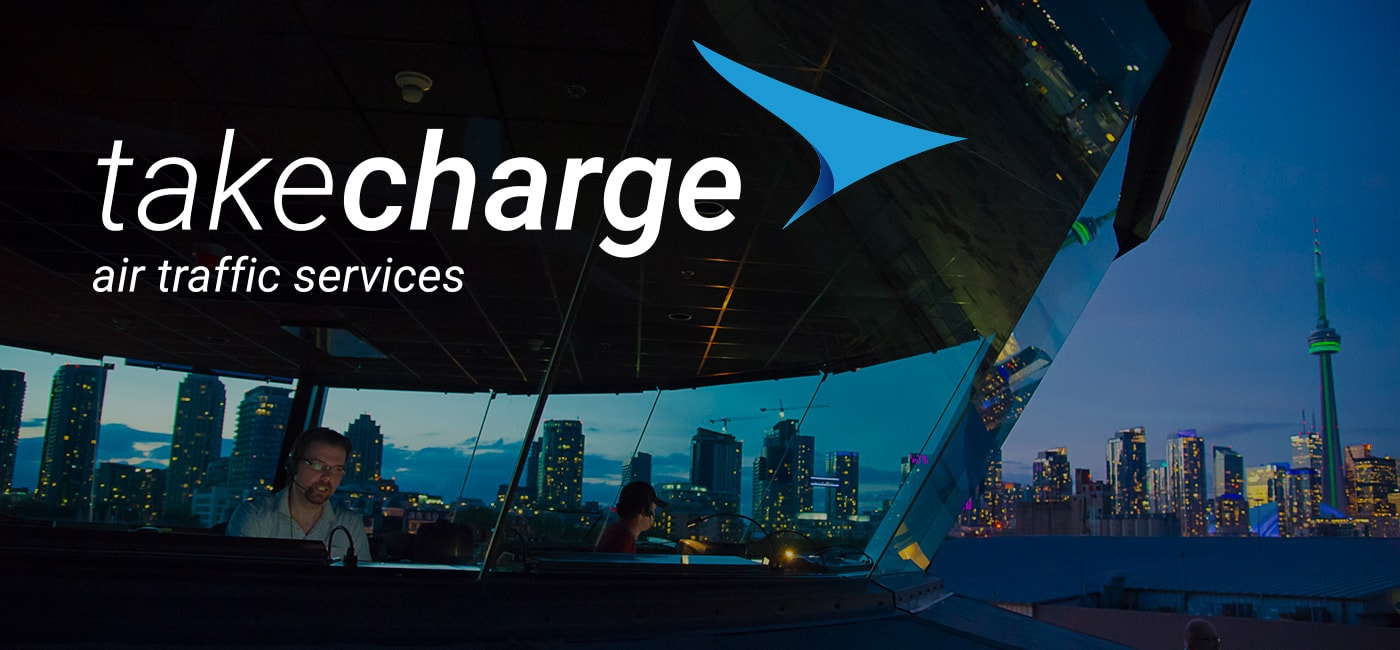
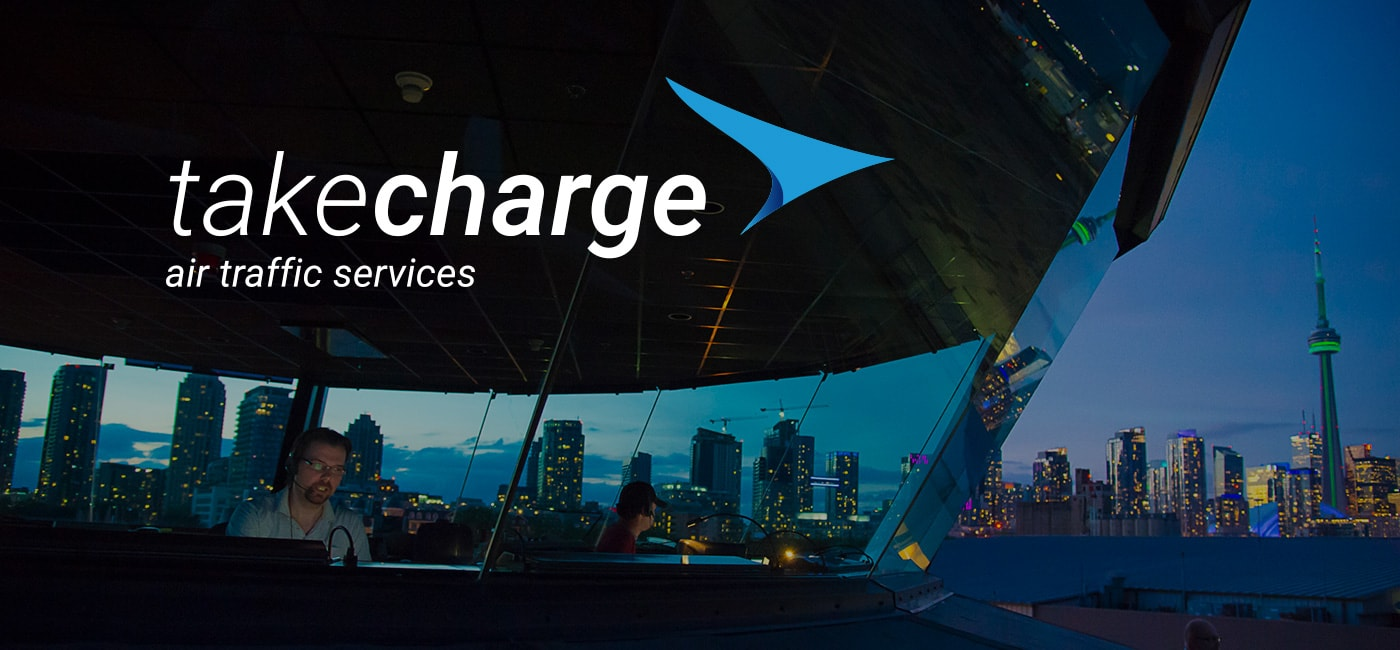
added 2 other projects

Changed region(s): [[0.0614, 0.0615, 0.6757, 0.4615]]

diff --git a/project-2.html b/project-2.html
@@ -2,97 +2,22 @@
 layout: default
 ---
 
-  <link href="/css/dialog-polyfill.css" rel="stylesheet">
-  <link href="/css/grids-app.css" rel="stylesheet">
-  <link href="/css/general-app.css" rel="stylesheet">
 
 <div class="grid">
-<div class="header-a">
 
-			<div class="unit unit-xs-1-9 unit-s-hidden unit-m-1-9 unit-l-1-9 unit-xl-1-8">
-			</div>
+	<div class="bg" role="complementary" id="comp">
+	<section class="work-single">
 
-			<div class="unit unit-xs-7-9 unit-s-1-2 unit-m-4-9 unit-l-4-9 unit-xl-1-4">
-					<div class="unit-spacer fade-in one">
-						<img class="flex-img logo-a" src="img/logo-a.png">
-						<h1 class="logo-js h1-a">Live Music</h1>
-						<h2 class="logo-js h2-a">The app for all music festivals</h2>
-					</div>
-			</div>
-
-			<div class="unit unit-xs-1-9 unit-s-hidden unit-m-hidden unit-l-hidden unit-xl-1-9">
-			</div>
-
-			<div class="unit unit-xs-1-9 unit-s-hidden unit-m-hidden unit-l-hidden">
-			</div>
-
-			<div class="unit unit-xs-7-9 unit-s-1-2 unit-m-1-3 unit-l-1-3 unit-xl-3-8  intro-app">
-					<div class="unit-spacer fade-in one">
-						<img id="btn-open" class="flex-img iphone-band logo-js" src="img/iphone-band.png">
-
-						<dialog id="video">
-							<button id="btn-close">×</button>
-							<div id="video-placeholder"></div>
-						</dialog>
-
-					</div>
-			</div>
-
-			<div class="unit unit-xs-1-9 unit-s-1-hidden unit-m-1-9 unit-l-1-9 unit-xl-1-8">
-			</div>
-
-</div>
-</div>
+		<div class="unit unit-xs-1 unit-s-1 unit-m-1 unit-l-1" >
+				<img src="img/nc1.jpg" alt="NAV Canada Take Charge" class="flex-img">
+				<img src="img/nc2.jpg" alt="Desktop version of home page and mobile version of inside pages of the NAV CANADA Website" class="flex-img">
+				<img src="img/nc3.jpg" alt="2 different inside pages for desktop view and 3 mobile screen views of the NAV CANADA Website" class="flex-img">
+				<img src="img/nc4.jpg" alt="Tablet and desktop view of the NAV CANADA Website and an infographic for the companie's statistic" class="flex-img">
+				<img src="img/nc5.jpg" alt="Multiple mobile screens and a responsive display of the NAV CANADA Website" class="flex-img">
+		</div>
 
 
 
-<!-- TABS -->
-
-	<ul class="tabs">
-		<li><a class="tab" data-state="current" href="#tab-1"><div class="circle"></div></a></li>
-		<li><a class="tab" href="#tab-2"><div class="circle"></div></a></li>
-		<li><a class="tab" href="#tab-3"><div class="circle"></div></a></li>
-	</ul>
-
-	<div class="tab-panel" data-state="current" id="tab-1">
-		<img class="tab-img flex-img" src="img/screen-all.jpg">
-	</div>
-
-	<div class="tab-panel" id="tab-2">
-		<img class="tab-img flex-img" src="img/screen-news.jpg">
-	</div>
-
-	<div class="tab-panel" id="tab-3">
-		<img class="tab-img flex-img" src="img/screen-schedule.jpg">
-	</div>
-
-
-
-	<!-- FEATURES -->
-
-	<section class="features-section">
-		<ul class="features">
-			<li><a class="tabb" data-state="current" href="#tab-a"><img class="icons" src="img/i-home.svg" alt=""></a></li>
-			<li><a class="tabb" href="#tab-b"><img class="icons" src="img/i-find.svg" alt=""></a></li>
-			<li><a class="tabb" href="#tab-c"><img class="icons" src="img/i-music.svg" alt=""></a></li>
-			<li><a class="tabb" href="#tab-d"><img class="icons" src="img/i-schedule.svg" alt=""></a></li>
 	</section>
-
-	<div class="tabb-panel" data-state="current" id="tab-a">
-		<div class="tabb-img flex-img app-feat-img app-1"></div>
 	</div>
-
-	<div class="tabb-panel" id="tab-b">
-		<div class="tabb-img flex-img app-feat-img app-2"></div>
-	</div>
-
-	<div class="tabb-panel" id="tab-c">
-		<div class="tabb-img flex-img app-feat-img app-3"></div>
-	</div>
-
-	<div class="tabb-panel" id="tab-d">
-		<div class="tabb-img flex-img app-feat-img app-4"></div>
-	</div>
-
-
-
+</div>

diff --git a/project-3.html b/project-3.html
@@ -1,0 +1,98 @@
+---
+layout: default
+---
+
+  <link href="/css/dialog-polyfill.css" rel="stylesheet">
+  <link href="/css/grids-app.css" rel="stylesheet">
+  <link href="/css/general-app.css" rel="stylesheet">
+
+<div class="grid">
+<div class="header-a">
+
+			<div class="unit unit-xs-1-9 unit-s-hidden unit-m-1-9 unit-l-1-9 unit-xl-1-8">
+			</div>
+
+			<div class="unit unit-xs-7-9 unit-s-1-2 unit-m-4-9 unit-l-4-9 unit-xl-1-4">
+					<div class="unit-spacer fade-in one">
+						<h1 class="logo-js h1-a">Live Music</h1>
+						<h2 class="logo-js h2-a">The app for all music festivals</h2>
+						<img class="flex-img logo-a" src="img/logo-a.png">
+					</div>
+			</div>
+
+			<div class="unit unit-xs-1-9 unit-s-hidden unit-m-hidden unit-l-hidden unit-xl-1-9">
+			</div>
+
+			<div class="unit unit-xs-1-9 unit-s-hidden unit-m-hidden unit-l-hidden">
+			</div>
+
+			<div class="unit unit-xs-7-9 unit-s-1-2 unit-m-1-3 unit-l-1-3 unit-xl-3-8  intro-app">
+					<div class="unit-spacer fade-in one">
+						<img id="btn-open" class="flex-img iphone-band logo-js" src="img/iphone-band.png">
+
+						<dialog id="video">
+							<button id="btn-close">×</button>
+							<div id="video-placeholder"></div>
+						</dialog>
+
+					</div>
+			</div>
+
+			<div class="unit unit-xs-1-9 unit-s-1-hidden unit-m-1-9 unit-l-1-9 unit-xl-1-8">
+			</div>
+
+</div>
+</div>
+
+
+
+<!-- TABS -->
+
+	<ul class="tabs">
+		<li><a class="tab" data-state="current" href="#tab-1"><div class="circle"></div></a></li>
+		<li><a class="tab" href="#tab-2"><div class="circle"></div></a></li>
+		<li><a class="tab" href="#tab-3"><div class="circle"></div></a></li>
+	</ul>
+
+	<div class="tab-panel" data-state="current" id="tab-1">
+		<img class="tab-img flex-img" src="img/screen-all.jpg">
+	</div>
+
+	<div class="tab-panel" id="tab-2">
+		<img class="tab-img flex-img" src="img/screen-news.jpg">
+	</div>
+
+	<div class="tab-panel" id="tab-3">
+		<img class="tab-img flex-img" src="img/screen-schedule.jpg">
+	</div>
+
+
+
+	<!-- FEATURES -->
+
+	<section class="features-section">
+		<ul class="features">
+			<li><a class="tabb" data-state="current" href="#tab-a"><img class="icons" src="img/i-home.svg" alt=""></a></li>
+			<li><a class="tabb" href="#tab-b"><img class="icons" src="img/i-find.svg" alt=""></a></li>
+			<li><a class="tabb" href="#tab-c"><img class="icons" src="img/i-music.svg" alt=""></a></li>
+			<li><a class="tabb" href="#tab-d"><img class="icons" src="img/i-schedule.svg" alt=""></a></li>
+	</section>
+
+	<div class="tabb-panel" data-state="current" id="tab-a">
+		<div class="tabb-img flex-img app-feat-img app-1"></div>
+	</div>
+
+	<div class="tabb-panel" id="tab-b">
+		<div class="tabb-img flex-img app-feat-img app-2"></div>
+	</div>
+
+	<div class="tabb-panel" id="tab-c">
+		<div class="tabb-img flex-img app-feat-img app-3"></div>
+	</div>
+
+	<div class="tabb-panel" id="tab-d">
+		<div class="tabb-img flex-img app-feat-img app-4"></div>
+	</div>
+
+
+

diff --git a/project-1.html b/project-1.html
@@ -9,14 +9,8 @@ layout: default
 	<section class="work-single">
 
 		<div class="unit unit-xs-1 unit-s-1 unit-m-1 unit-l-1" >
-				<img src="img/nc1.jpg" alt="NAV Canada Take Charge" class="flex-img">
-				<img src="img/nc2.jpg" alt="Desktop version of home page and mobile version of inside pages of the NAV CANADA Website" class="flex-img">
-				<img src="img/nc3.jpg" alt="2 different inside pages for desktop view and 3 mobile screen views of the NAV CANADA Website" class="flex-img">
-				<img src="img/nc4.jpg" alt="Tablet and desktop view of the NAV CANADA Website and an infographic for the companie's statistic" class="flex-img">
-				<img src="img/nc5.jpg" alt="Multiple mobile screens and a responsive display of the NAV CANADA Website" class="flex-img">
+				<img src="img/soi-design.jpg" alt="Students on Ice Foundation responsive website design" class="flex-img">
 		</div>
-
-
 
 	</section>
 	</div>

diff --git a/index.html b/index.html
@@ -29,10 +29,13 @@ layout: default
 
 	<div class="unit unit-xs-1 unit-s-1 unit-m-1 unit-l-1" >
 		<a href="/project-1.html">
-			<img src="img/navcan-link.jpg" alt="NAV Canada Take Charge Website" class="flex-img">
+			<img src="img/soi-link.jpg" alt="Students on Ice Foundation Website" class="flex-img">
 		</a>
 		<a href="/project-2.html">
 			<img src="img/navcan-link.jpg" alt="NAV Canada Take Charge Website" class="flex-img">
+		</a>
+		<a href="/project-3.html">
+			<img src="img/musicapp-link.jpg" alt="Students on Ice Foundation Website" class="flex-img">
 		</a>
 	</div>
 

diff --git a/_includes/css/general.css b/_includes/css/general.css
@@ -446,7 +446,7 @@ header li {
 
 .logo-a {
 	max-width: 16em;
-	margin: 0 auto;
+	margin: 1em auto;
 }
 
 .h1-a {
